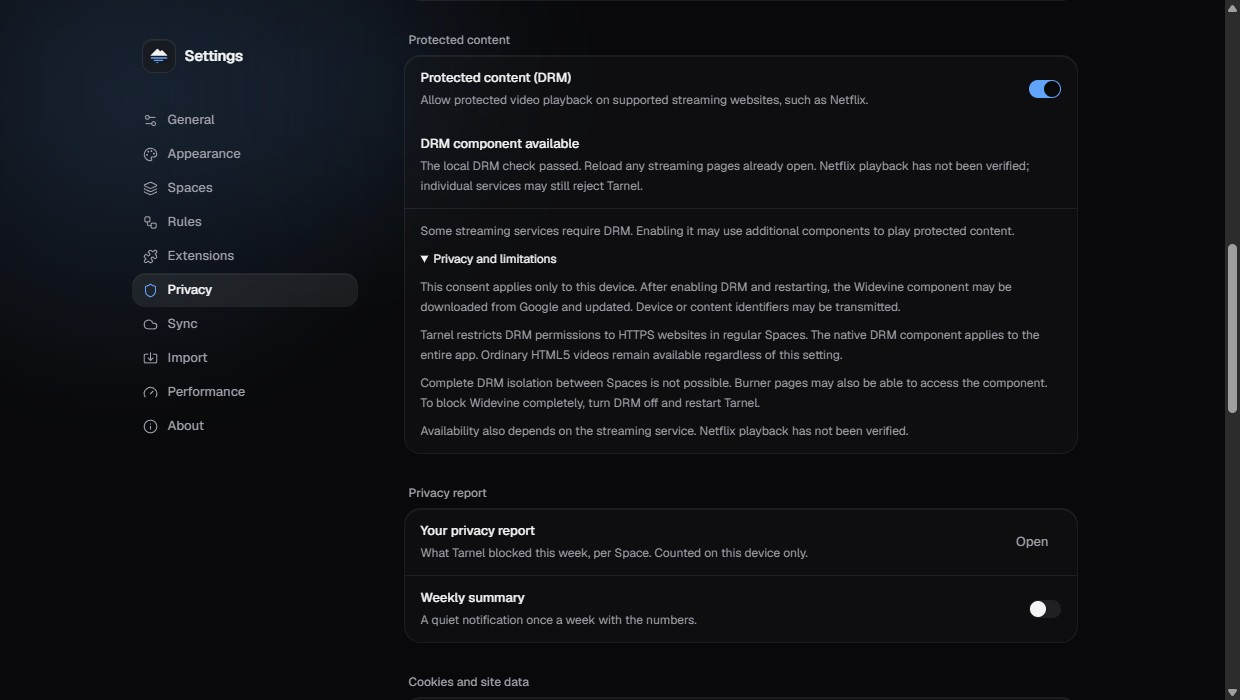
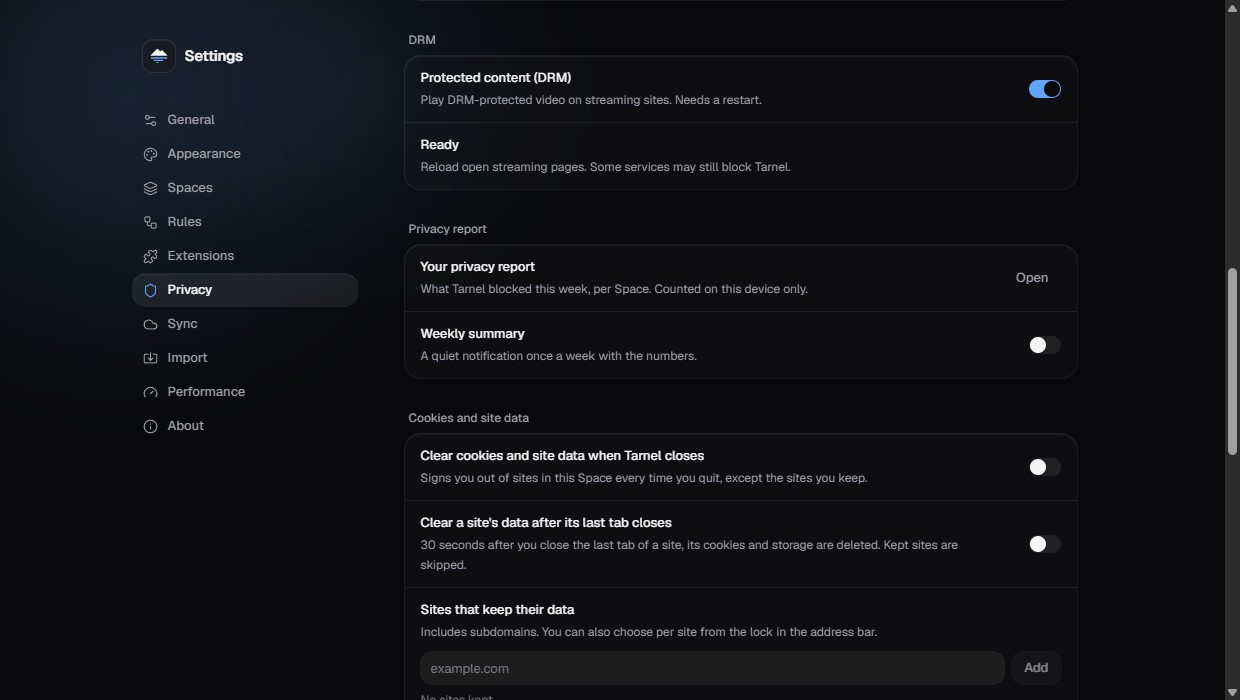
fix(drm): simplify settings and refresh screenshots

diff --git a/src/renderer/pages/settings/sections/Drm.tsx b/src/renderer/pages/settings/sections/Drm.tsx
@@ -131,9 +131,6 @@ export function Drm() {
         </Row>
       </div>}
       {restartError && <p role="alert" className="px-4 py-3 text-xs leading-5 text-destructive">{restartError}</p>}
-      <p className="px-4 py-3 text-xs leading-5 text-muted-foreground">
-        Downloads Google's Widevine component, which may send device identifiers. Applies to the whole app, including Burner Spaces.
-      </p>
     </Group>
   );
 }

diff --git a/docs/RELEASING.md b/docs/RELEASING.md
@@ -150,8 +150,8 @@ npm run dev:drm
 
 Enable Settings → Privacy → **Protected content (DRM)** and restart. The first enabled launch
 may download Google's Widevine component. Turning it off also needs a restart.
-The launcher honors `TARNEL_USER_DATA` / `VELA_USER_DATA`; native checks use temporary
-`tarnel-drm-runtime-*` directories. Only Windows x64 has been runtime-tested.
+The launcher honors `TARNEL_USER_DATA` / `VELA_USER_DATA` for isolated profiles.
+Only Windows x64 has been runtime-tested.
 
 An ECS release still needs applicable distribution terms, runtime packaging, platform identities,
 Castlabs [VMP signing](https://github.com/castlabs/electron-releases/wiki/EVS) and service testing of the
